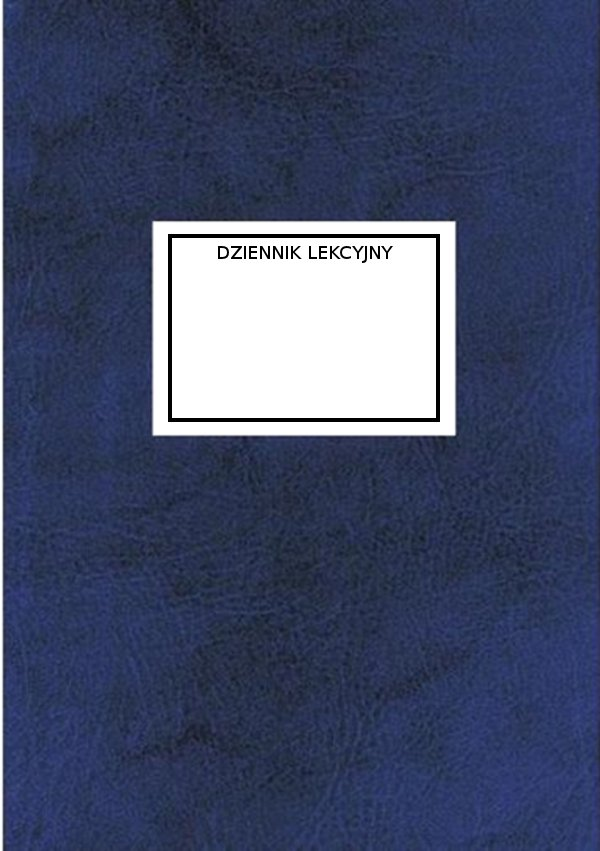
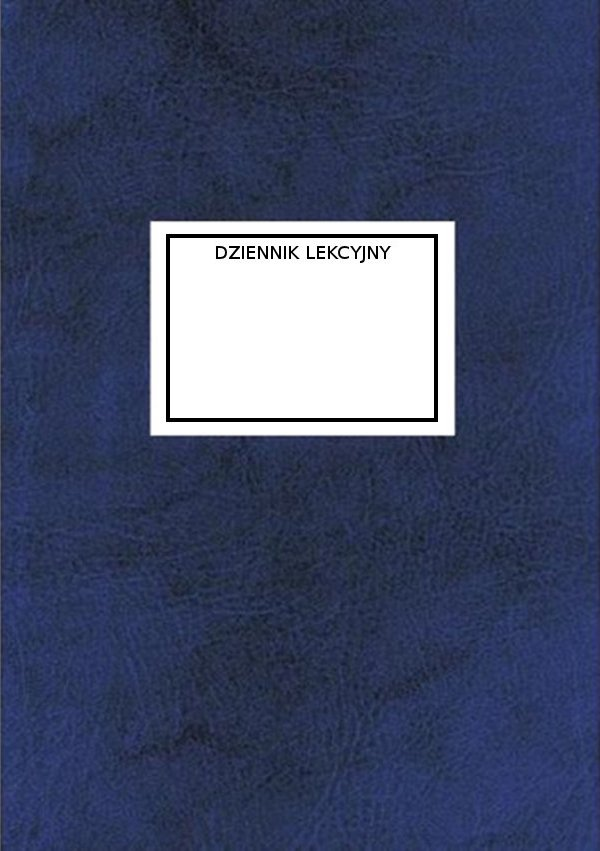
css

diff --git a/web/css/main.css b/web/css/main.css
@@ -15,8 +15,8 @@ body{
   position:relative;
   margin: 0 auto;
   width: 600px;	
-  height: 841px;
-  background-image: url('/images/dziennik.png');
+  height: 815px;
+  background-image: url('/images/dziennik_new.jpg');
   background-repeat:no-repeat;
   
 }
@@ -43,15 +43,29 @@ body{
 #logowanie{
 	position:absolute;
 	width: 280px;
-	padding: 270px 0 0 165px;
+	padding: 250px 0 0 160px;
 	text-align: center;
 	
 	
 	}
 
 #stopka{
+	position:relative;
 	width: 960px;
-	height: 80px;
-	margin-top: 30px;	
+	height: 50px;
+	background-image: url('/images/pen.png');
+	background-repeat:no-repeat;
+	margin-top: 10px;
 	
+	
+	
+	
+}
+#tekst_stopka{
+	position:absolute;
+	width: 200px;
+	height:20px;
+	font-size: 10px;
+	color: purple;
+	padding: 10px 0 0 320px;
 }

diff --git a/apps/frontend/templates/layout.php b/apps/frontend/templates/layout.php
@@ -13,7 +13,7 @@
   		<div id="content">
     <?php echo $sf_content ?>
     </div>
-    <div id="stopka"></div>
+    <div id="stopka"><p id="tekst_stopka">DIdSP ©2011 by Cyryl Sochacki</p></div>
     </div>
   </body>
 </html>

diff --git a/apps/frontend/modules/logowanie/templates/logujSuccess.php b/apps/frontend/modules/logowanie/templates/logujSuccess.php
@@ -1,8 +1,7 @@
 <div id="kontener-logowanie">
 <div id="logowanie"><h2>Logowanie</h2>
 <center>
-	
-	<p style="color: red;">
+	<p style="color: red; font-size: 10px;">
 	<?php
 	$blad = $_GET['er'];
 	if($blad == "blad"){
